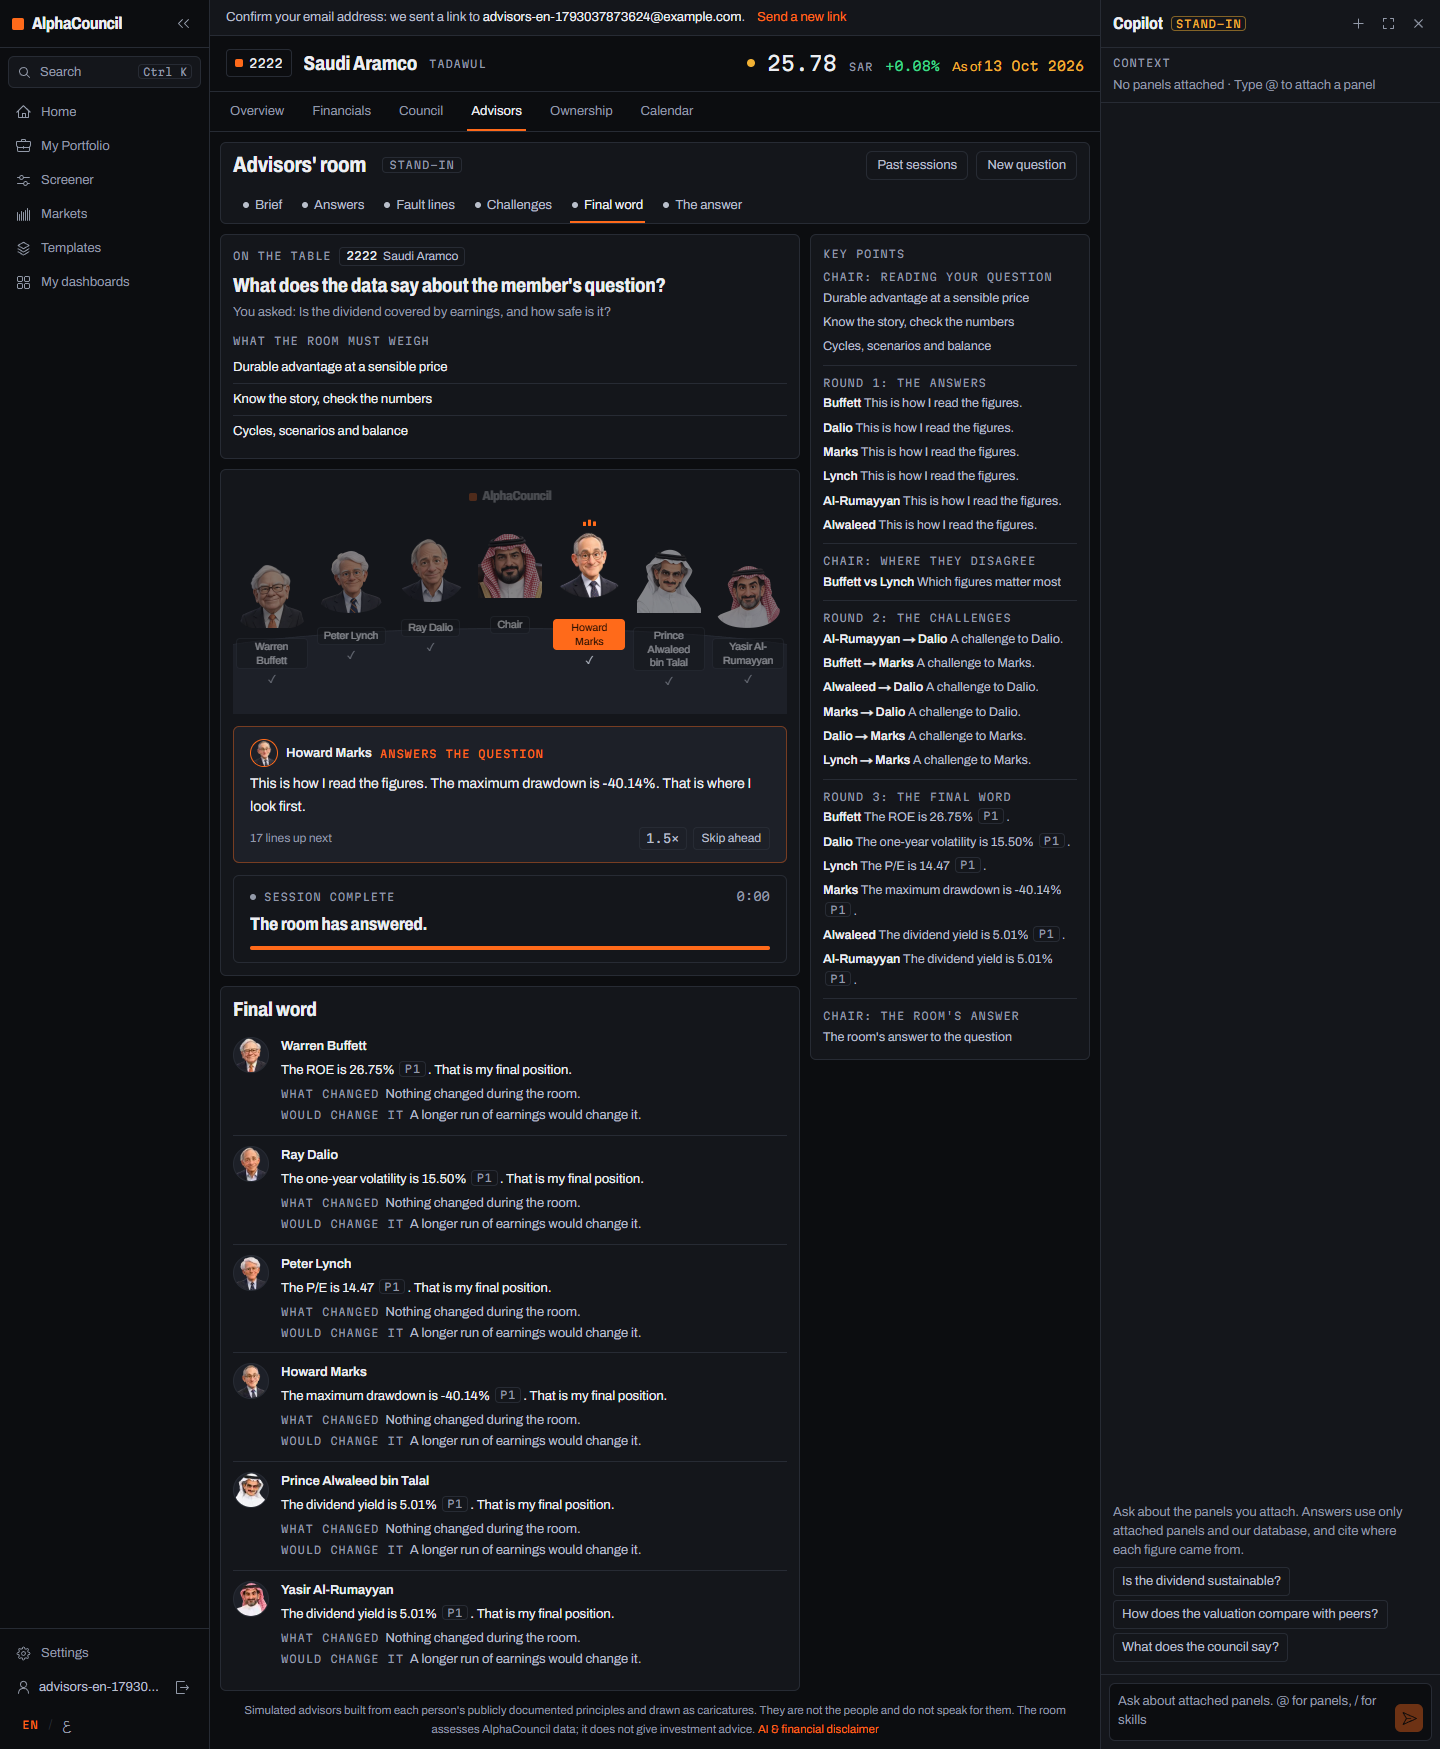
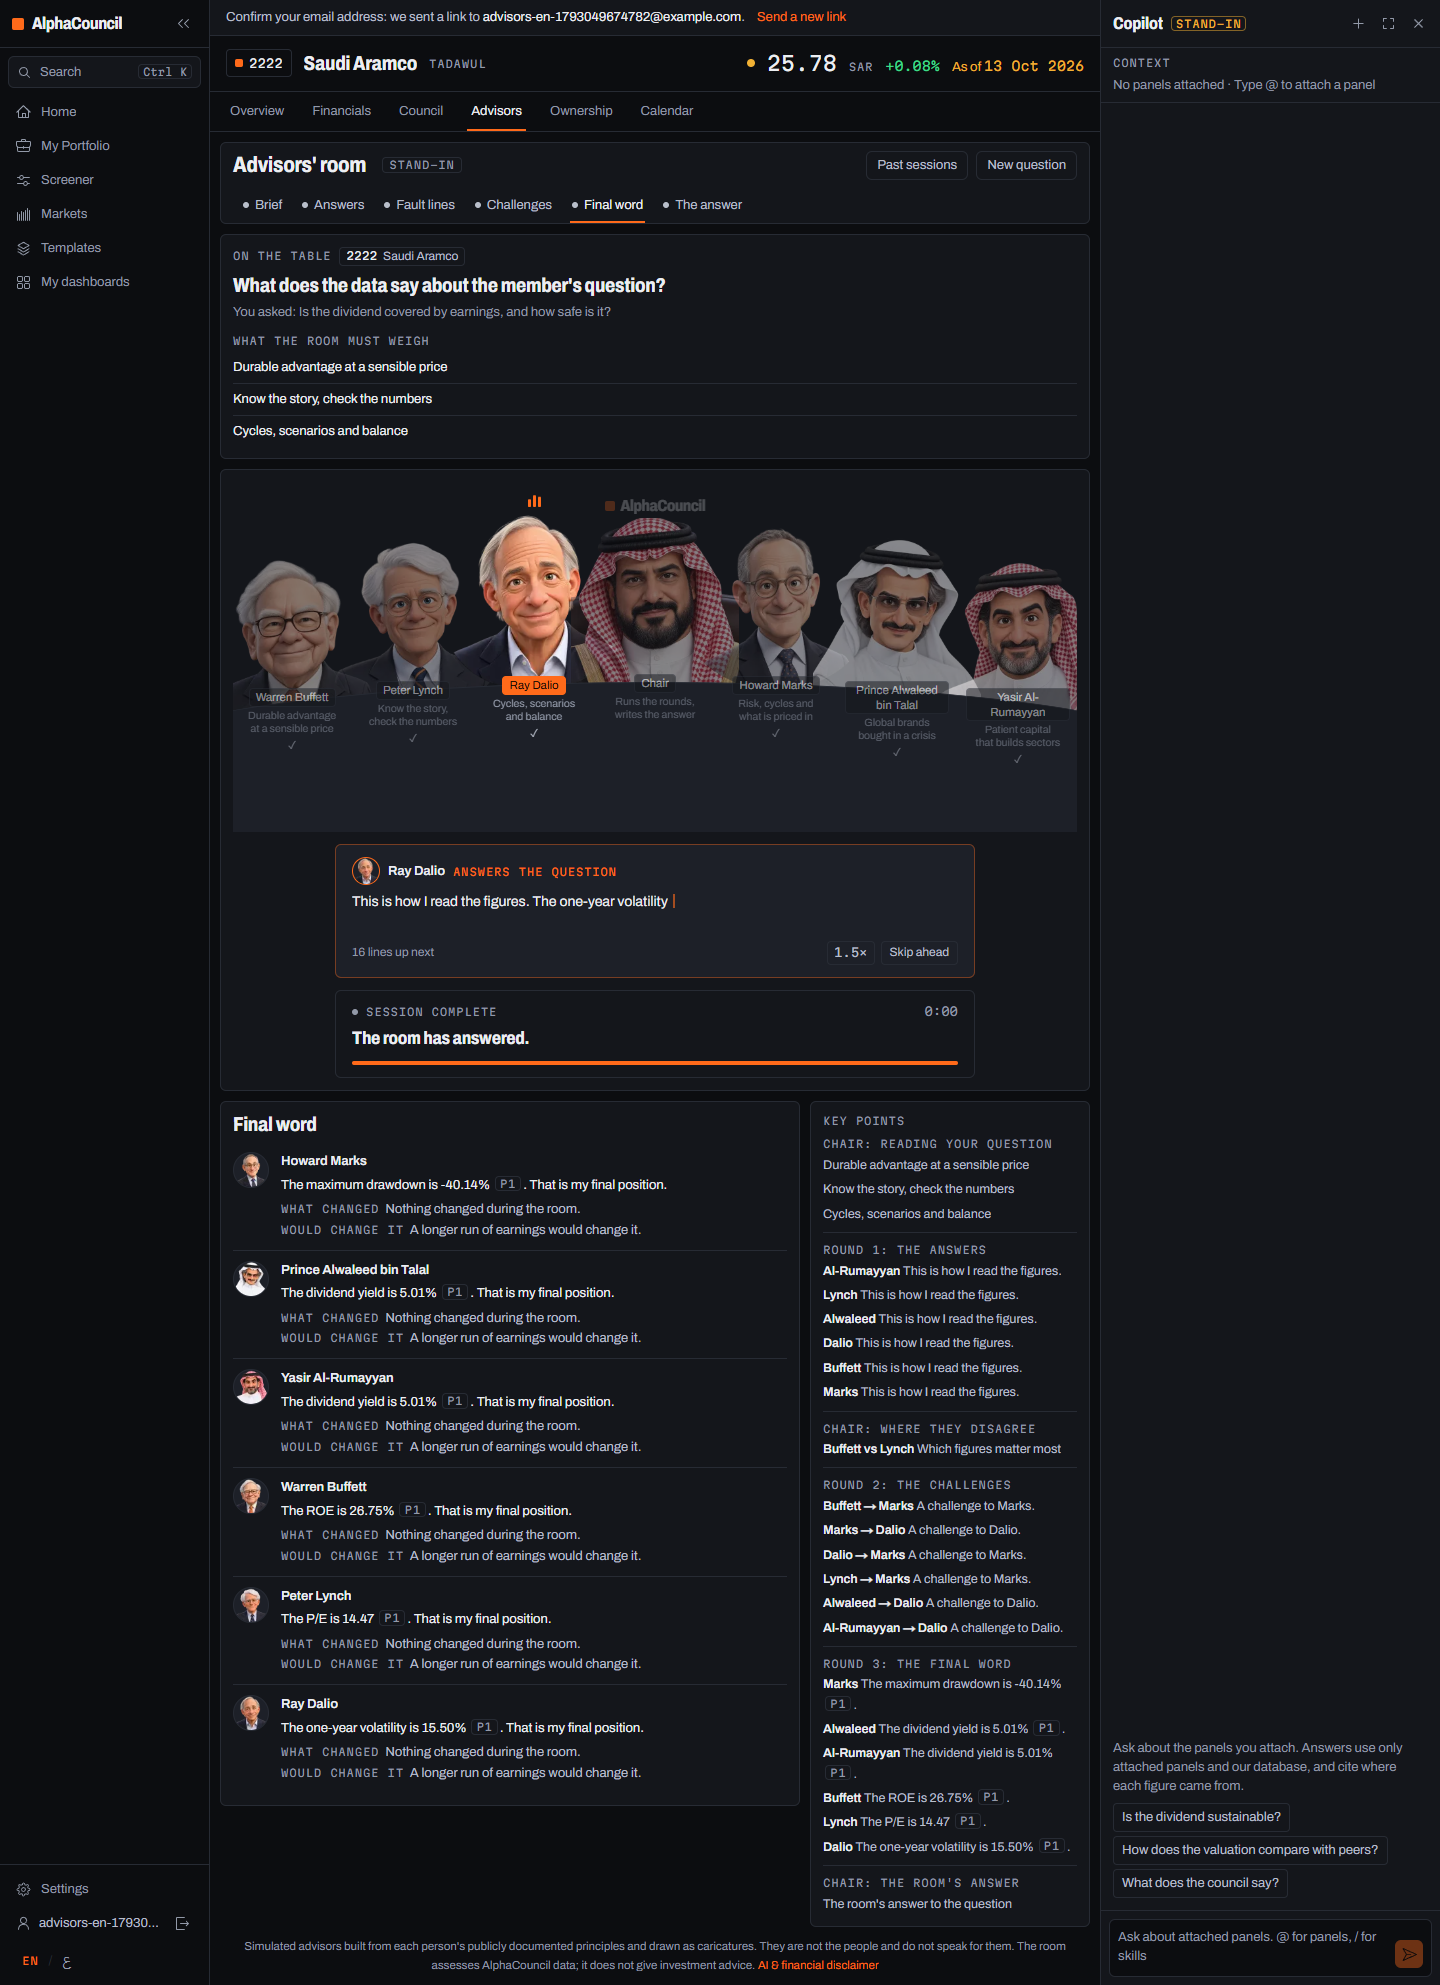
The advisors' room takes the full work area, and the busts reach their size
Owner's choice. The question and the room now span the whole work area; the stage
view and Key Points go back to two columns beneath them, so Key Points did not
have to move anywhere.

The busts were never small by choice. @3xl is 768 px and the stage column was
580 px, so the large-bust styles never applied at all -- the room was rendering
its phone layout on a 1440 px screen. Measured after the change: stage 870 px,
busts 168x182, inside the 160-200 px Step 22 asked for.

Three things followed. The table's top edge now crosses their chests, so they
stand at it rather than float above it, which needed the stage, table, bust and
name geometry solved together rather than guessed. A phone cannot carry seven
full names, so it shows surnames and the full names appear from 768 px up --
which is what the step wanted for phones anyway. And each seat's two vertical
offsets ride as CSS variables, because an inline style cannot answer a container
query.

169 API and 28 web tests pass; check-advisors all passed in both languages with
no sideways scroll at either width.

diff --git a/web/src/components/debate/Stage.tsx b/web/src/components/debate/Stage.tsx
@@ -15,7 +15,7 @@ import {
   type Room,
   type SeatInfo,
 } from "@/lib/debate";
-import { OptionId, SeatDisc, WritingMark, seatLens, seatName, useSeats } from "./parts";
+import { OptionId, SeatDisc, WritingMark, seatLens, seatName, seatShort, useSeats } from "./parts";
 
 /**
  * The room: the advisors standing round a table, the Chair at its head. Seats nearer the middle sit
@@ -64,12 +64,20 @@ export function SeatArc({
     const { writing, speaks, addressed } = state(s);
     return speaking && !speaks && !addressed && !writing ? "opacity-50" : "";
   };
-  const column = (i: number) =>
-    ({ "--x-sm": seatX(i, crowded ? 7 : 12), "--x-lg": seatX(i, 7) }) as React.CSSProperties;
-  const COL = "absolute -translate-x-1/2 [inset-inline-start:var(--x-sm)] rtl:translate-x-1/2 @3xl:[inset-inline-start:var(--x-lg)]";
+  const COL =
+    "absolute -translate-x-1/2 [inset-inline-start:var(--x-sm)] [top:var(--y-sm)] rtl:translate-x-1/2 " +
+    "@3xl:[inset-inline-start:var(--x-lg)] @3xl:[top:var(--y-lg)]";
+  /** Where a seat sits: across the arc, and how far down at each size. */
+  const place = (i: number, smallTop: number, largeTop: number, smallDrop: number, largeDrop: number) =>
+    ({
+      "--x-sm": seatX(i, crowded ? 7 : 12),
+      "--x-lg": seatX(i, 7),
+      "--y-sm": `${Math.round(smallTop - smallDrop * lift(i))}px`,
+      "--y-lg": `${Math.round(largeTop - largeDrop * lift(i))}px`,
+    }) as React.CSSProperties;
 
   return (
-    <div className="relative h-[232px] overflow-x-clip @3xl:h-[360px]" role="list" aria-label={t("seatsLabel")}>
+    <div className="relative h-[242px] overflow-x-clip @3xl:h-[350px]" role="list" aria-label={t("seatsLabel")}>
       {/* The wall behind the room: the brand mark, quiet, never competing with the seats. */}
       <span aria-hidden className="absolute inset-x-0 top-2 flex items-center justify-center gap-1.5 opacity-25 @3xl:top-4">
         <span className="block size-2 rounded-[2px] bg-signal @3xl:size-2.5" />
@@ -87,9 +95,9 @@ export function SeatArc({
             data-writing={writing || undefined}
             data-speaking={speaks || undefined}
             className={`${COL} z-0 flex flex-col items-center transition-opacity duration-300 ${dim(s)} ${
-              crowded ? "w-[64px] @3xl:w-[124px]" : "w-[86px] @3xl:w-[150px]"
+              crowded ? "w-[64px] @3xl:w-[168px]" : "w-[86px] @3xl:w-[190px]"
             }`}
-            style={{ ...column(i), top: `${Math.round(54 - 30 * lift(i))}px` }}
+            style={place(i, 62, 44, 30, 40)}
           >
             {speaks ? <SpeakingBars /> : <WritingMark on={writing} />}
             <span
@@ -104,7 +112,7 @@ export function SeatArc({
       {/* 2. The table, in front of the busts. A flat graphite surface with one lit edge — no gradient. */}
       <div
         aria-hidden
-        className="absolute inset-x-[-14%] bottom-0 z-10 h-[86px] rounded-t-[50%] border-t border-line bg-panel-raised @3xl:h-[128px]"
+        className="absolute inset-x-[-14%] bottom-0 z-10 h-[106px] rounded-t-[50%] border-t border-line bg-panel-raised @3xl:h-[150px]"
       />
 
       {/* 3. The names, printed on the table. */}
@@ -118,12 +126,12 @@ export function SeatArc({
           <div
             key={s.id}
             className={`${COL} z-20 flex flex-col items-center gap-0.5 transition-opacity duration-300 ${dim(s)} ${
-              crowded ? "w-[72px] @3xl:w-[104px]" : "w-[92px] @3xl:w-[128px]"
+              crowded ? "w-[50px] @3xl:w-[104px]" : "w-[76px] @3xl:w-[128px]"
             }`}
-            style={{ ...column(i), top: `${Math.round(156 - 22 * lift(i))}px` }}
+            style={place(i, 142, 206, 14, 14)}
           >
             <span
-              className={`max-w-full text-balance rounded-chip border px-1.5 py-px text-center text-[10.5px] leading-[1.25] @3xl:text-[11.5px] ${
+              className={`max-w-full truncate rounded-chip border px-1 py-px text-center text-[9.5px] leading-[1.25] @3xl:overflow-visible @3xl:text-clip @3xl:whitespace-normal @3xl:text-balance @3xl:px-1.5 @3xl:text-[11.5px] ${
                 speaks
                   ? "border-signal bg-signal text-signal-ink"
                   : addressed
@@ -131,9 +139,11 @@ export function SeatArc({
                     : "border-line bg-panel text-text"
               }`}
             >
-              {s.role === "chair" ? t("chair") : seatName(s, locale)}
+              {/* Seven full names do not fit across a phone, so the surname carries it there. */}
+              <span className="@3xl:hidden">{s.role === "chair" ? t("chairShort") : seatShort(s, locale)}</span>
+              <span className="hidden @3xl:inline">{s.role === "chair" ? t("chair") : seatName(s, locale)}</span>
             </span>
-            <span className="hidden max-w-full truncate text-center text-[11px] leading-tight text-muted @3xl:block">
+            <span className="hidden max-w-full text-balance text-center text-[10.5px] leading-tight text-muted @3xl:line-clamp-2 @3xl:block">
               {seatLens(s, locale)}
             </span>
             {s.role === "advisor" && (vote || lean || final) && (
@@ -166,8 +176,8 @@ function SeatBust({
   const [failed, setFailed] = useState<string | null>(null);
   const portrait = seat.portrait && seat.portrait !== failed ? seat.portrait : null;
   // Static classes both ways: Tailwind cannot see a width built from a variable.
-  const box = crowded ? "h-[74px] @3xl:h-[142px]" : "h-[86px] @3xl:h-[164px]";
-  const wide = crowded ? "w-[64px] @3xl:w-[124px]" : "w-[86px] @3xl:w-[150px]";
+  const box = crowded ? "h-[74px] @3xl:h-[182px]" : "h-[86px] @3xl:h-[200px]";
+  const wide = crowded ? "w-[64px] @3xl:w-[168px]" : "w-[86px] @3xl:w-[190px]";
   if (!portrait) {
     return (
       <span className={`flex items-end justify-center ${box}`}>

diff --git a/web/src/components/debate/DebateRoom.tsx b/web/src/components/debate/DebateRoom.tsx
@@ -151,30 +151,35 @@ export function DebateRoom() {
 
       {showPast && <PastSessions onOpen={openSaved} current={room.session?.id ?? null} />}
 
-      {/* Side by side from a mid-size work area; the column is its own container, so the seats
-          and the options size to the column, not to the window. */}
+      {/* The question and the room take the whole work area: seven busts round a table need the width,
+          and each is its own container, so they size to the area rather than to the window. Below them
+          the stage view and Key Points go back to two columns. */}
+      {room.session && (
+        <div className="@container">
+          <OnTheTable room={room} />
+        </div>
+      )}
+      <section className={`${PANEL} @container flex flex-col gap-3`} data-stage>
+        {room.session ? (
+          <SessionStage key={room.session.id} room={room} />
+        ) : (
+          <>
+            <SeatArc seats={seats} room={null} />
+            {sittingOut.length > 0 && (
+              <p className="text-center text-[12px] text-muted" data-sits-out>
+                {t("sitsOut", { names: sittingOut.map((s) => seatName(s, locale)).join(t("and")), n: sittingOut.length })}
+              </p>
+            )}
+            {shownId != null ? (
+              <p className="animate-pulse text-center text-muted">{t("loading")}</p>
+            ) : (
+              <QuestionForm onConvene={convene} error={startError} />
+            )}
+          </>
+        )}
+      </section>
       <div className="grid gap-2.5 @3xl:grid-cols-[minmax(0,1fr)_280px]">
         <div className="@container flex min-w-0 flex-col gap-2.5">
-          {room.session && <OnTheTable room={room} />}
-          <section className={`${PANEL} flex flex-col gap-3`} data-stage>
-            {room.session ? (
-              <SessionStage key={room.session.id} room={room} />
-            ) : (
-              <>
-                <SeatArc seats={seats} room={null} />
-                {sittingOut.length > 0 && (
-                  <p className="text-center text-[12px] text-muted" data-sits-out>
-                    {t("sitsOut", { names: sittingOut.map((s) => seatName(s, locale)).join(t("and")), n: sittingOut.length })}
-                  </p>
-                )}
-                {shownId != null ? (
-                  <p className="animate-pulse text-center text-muted">{t("loading")}</p>
-                ) : (
-                  <QuestionForm onConvene={convene} error={startError} />
-                )}
-              </>
-            )}
-          </section>
           {room.session && view && <StageView room={room} stage={view} />}
           {!room.session && shownId == null && <HowItWorks />}
         </div>

diff --git a/docs/advisors-image-requests.md b/docs/advisors-image-requests.md
@@ -401,5 +401,23 @@ drawing one, and it is the owner's:
 
 - **Leave it** — busts about 80–120 px. Bigger than the 52–66 px discs they replace, full names fit,
   everything passes. Just not the reference's scale.
-- **Give the room the full work area** on this tab — collapse or move Key Points, and the busts can
-  reach the reference's size. A larger change to the page, and Key Points has to go somewhere.
+- ~~Give the room the full work area~~ — **chosen 2026-10-27.** The question and the room now span the
+  whole work area; the stage view and Key Points go back to two columns beneath them, so Key Points did
+  not have to move at all.
+
+### What that actually fixed
+
+The busts were not small because of a sizing choice. `@3xl` is 768 px and the column was 580 px, so the
+large-bust styles **never applied** — the room was rendering its phone layout on a 1440 px screen.
+Measured after the change: stage **870 px**, busts **168 × 182 px**, inside the 160–200 px the step asked
+for.
+
+Three things fell out of it:
+
+- The table's top edge now crosses their chests, so they stand at it rather than float above it.
+- A phone cannot carry seven full names: it shows surnames, and the full names appear from 768 px up.
+- Each seat's two vertical offsets ride as CSS variables, because an inline style cannot answer a
+  container query.
+
+Still open for the owner to judge on beta: the arc is shallow (heads rise about 40 px toward the
+middle), and there is no mouth movement, since the talk frames were never made.
